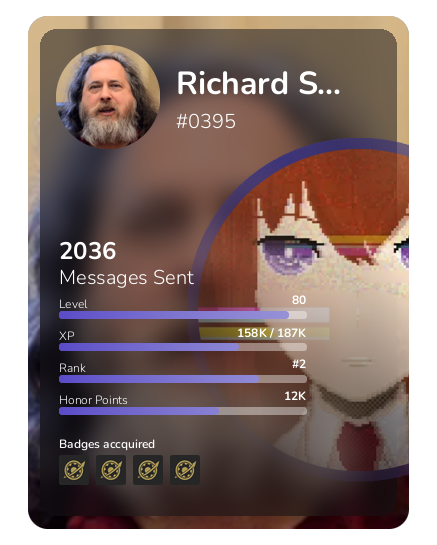
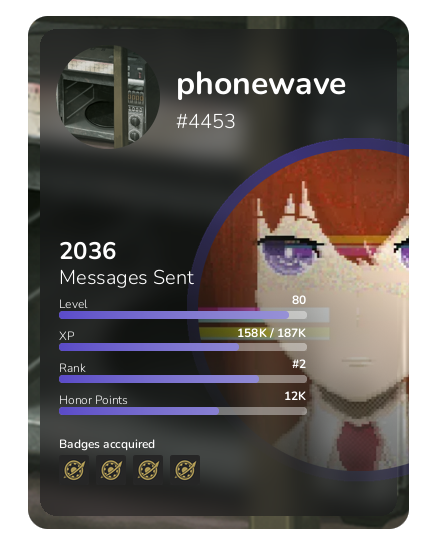
drawing an actual discord discriminator on card

diff --git a/app/utilities/drawing/master.py b/app/utilities/drawing/master.py
@@ -16,7 +16,7 @@ else:
     from utils import *
 
 
-def drawProfileCard(avatar_url, nickname):
+def drawProfileCard(avatar_url, nickname, discriminator):
 
     #####################
     #  SETTING OFFSETS  #
@@ -147,7 +147,7 @@ def drawProfileCard(avatar_url, nickname):
     # Discord tag and "Messages Sent" text
     font = ImageFont.truetype("fonts/Nunito-VariableFont_wght.ttf", 20)
     font.set_variation_by_name('Regular')
-    draw.text((148, 91),"#0395",(255,255,255),font=font)
+    draw.text((148, 91), "#" + str(discriminator),(255,255,255),font=font)
     draw.text((31, 247),"Messages Sent",(255,255,255),font=font)
 
     # Messages count

diff --git a/app/modules/info/hiddenprofilecard.py b/app/modules/info/hiddenprofilecard.py
@@ -19,7 +19,8 @@ def profileCardFromMember(member):
     return discord.File(
         drawing.drawProfileCard(
             member.avatar.url,
-            nickname
+            nickname,
+            member.discriminator
         ), filename="profile_card.png" )
 
 class Hiddenprofilecard(commands.Cog):
